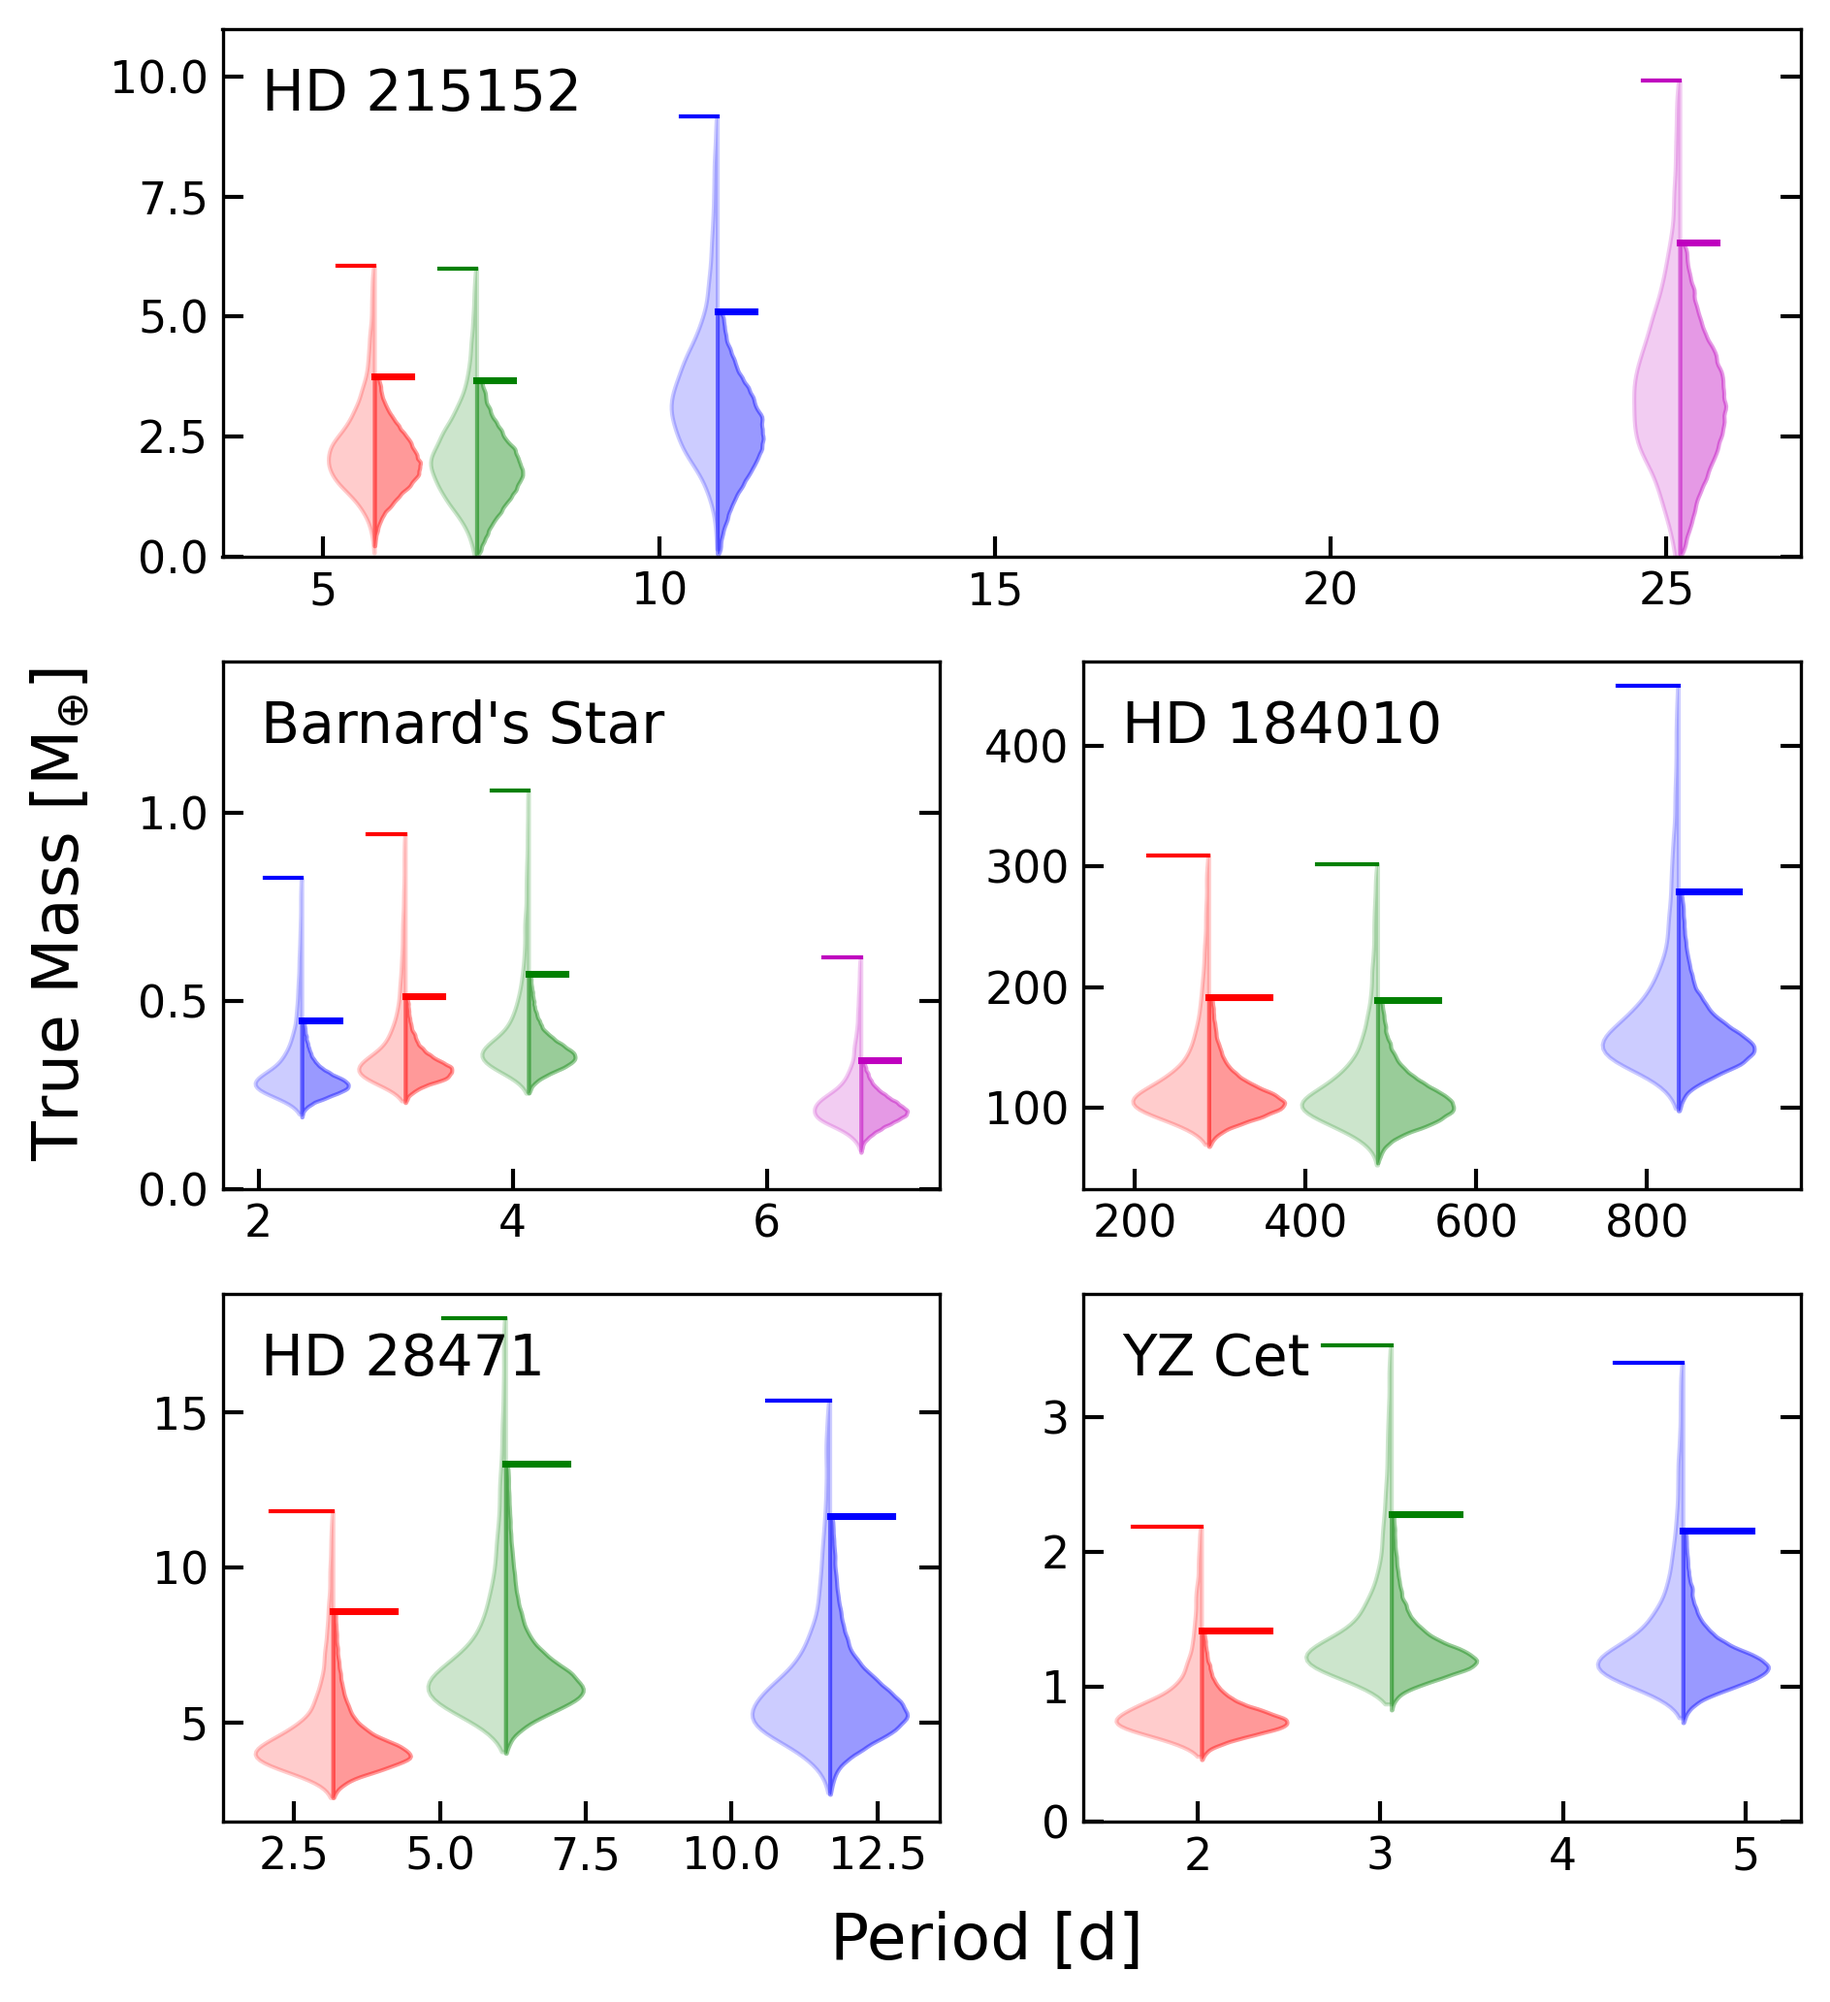
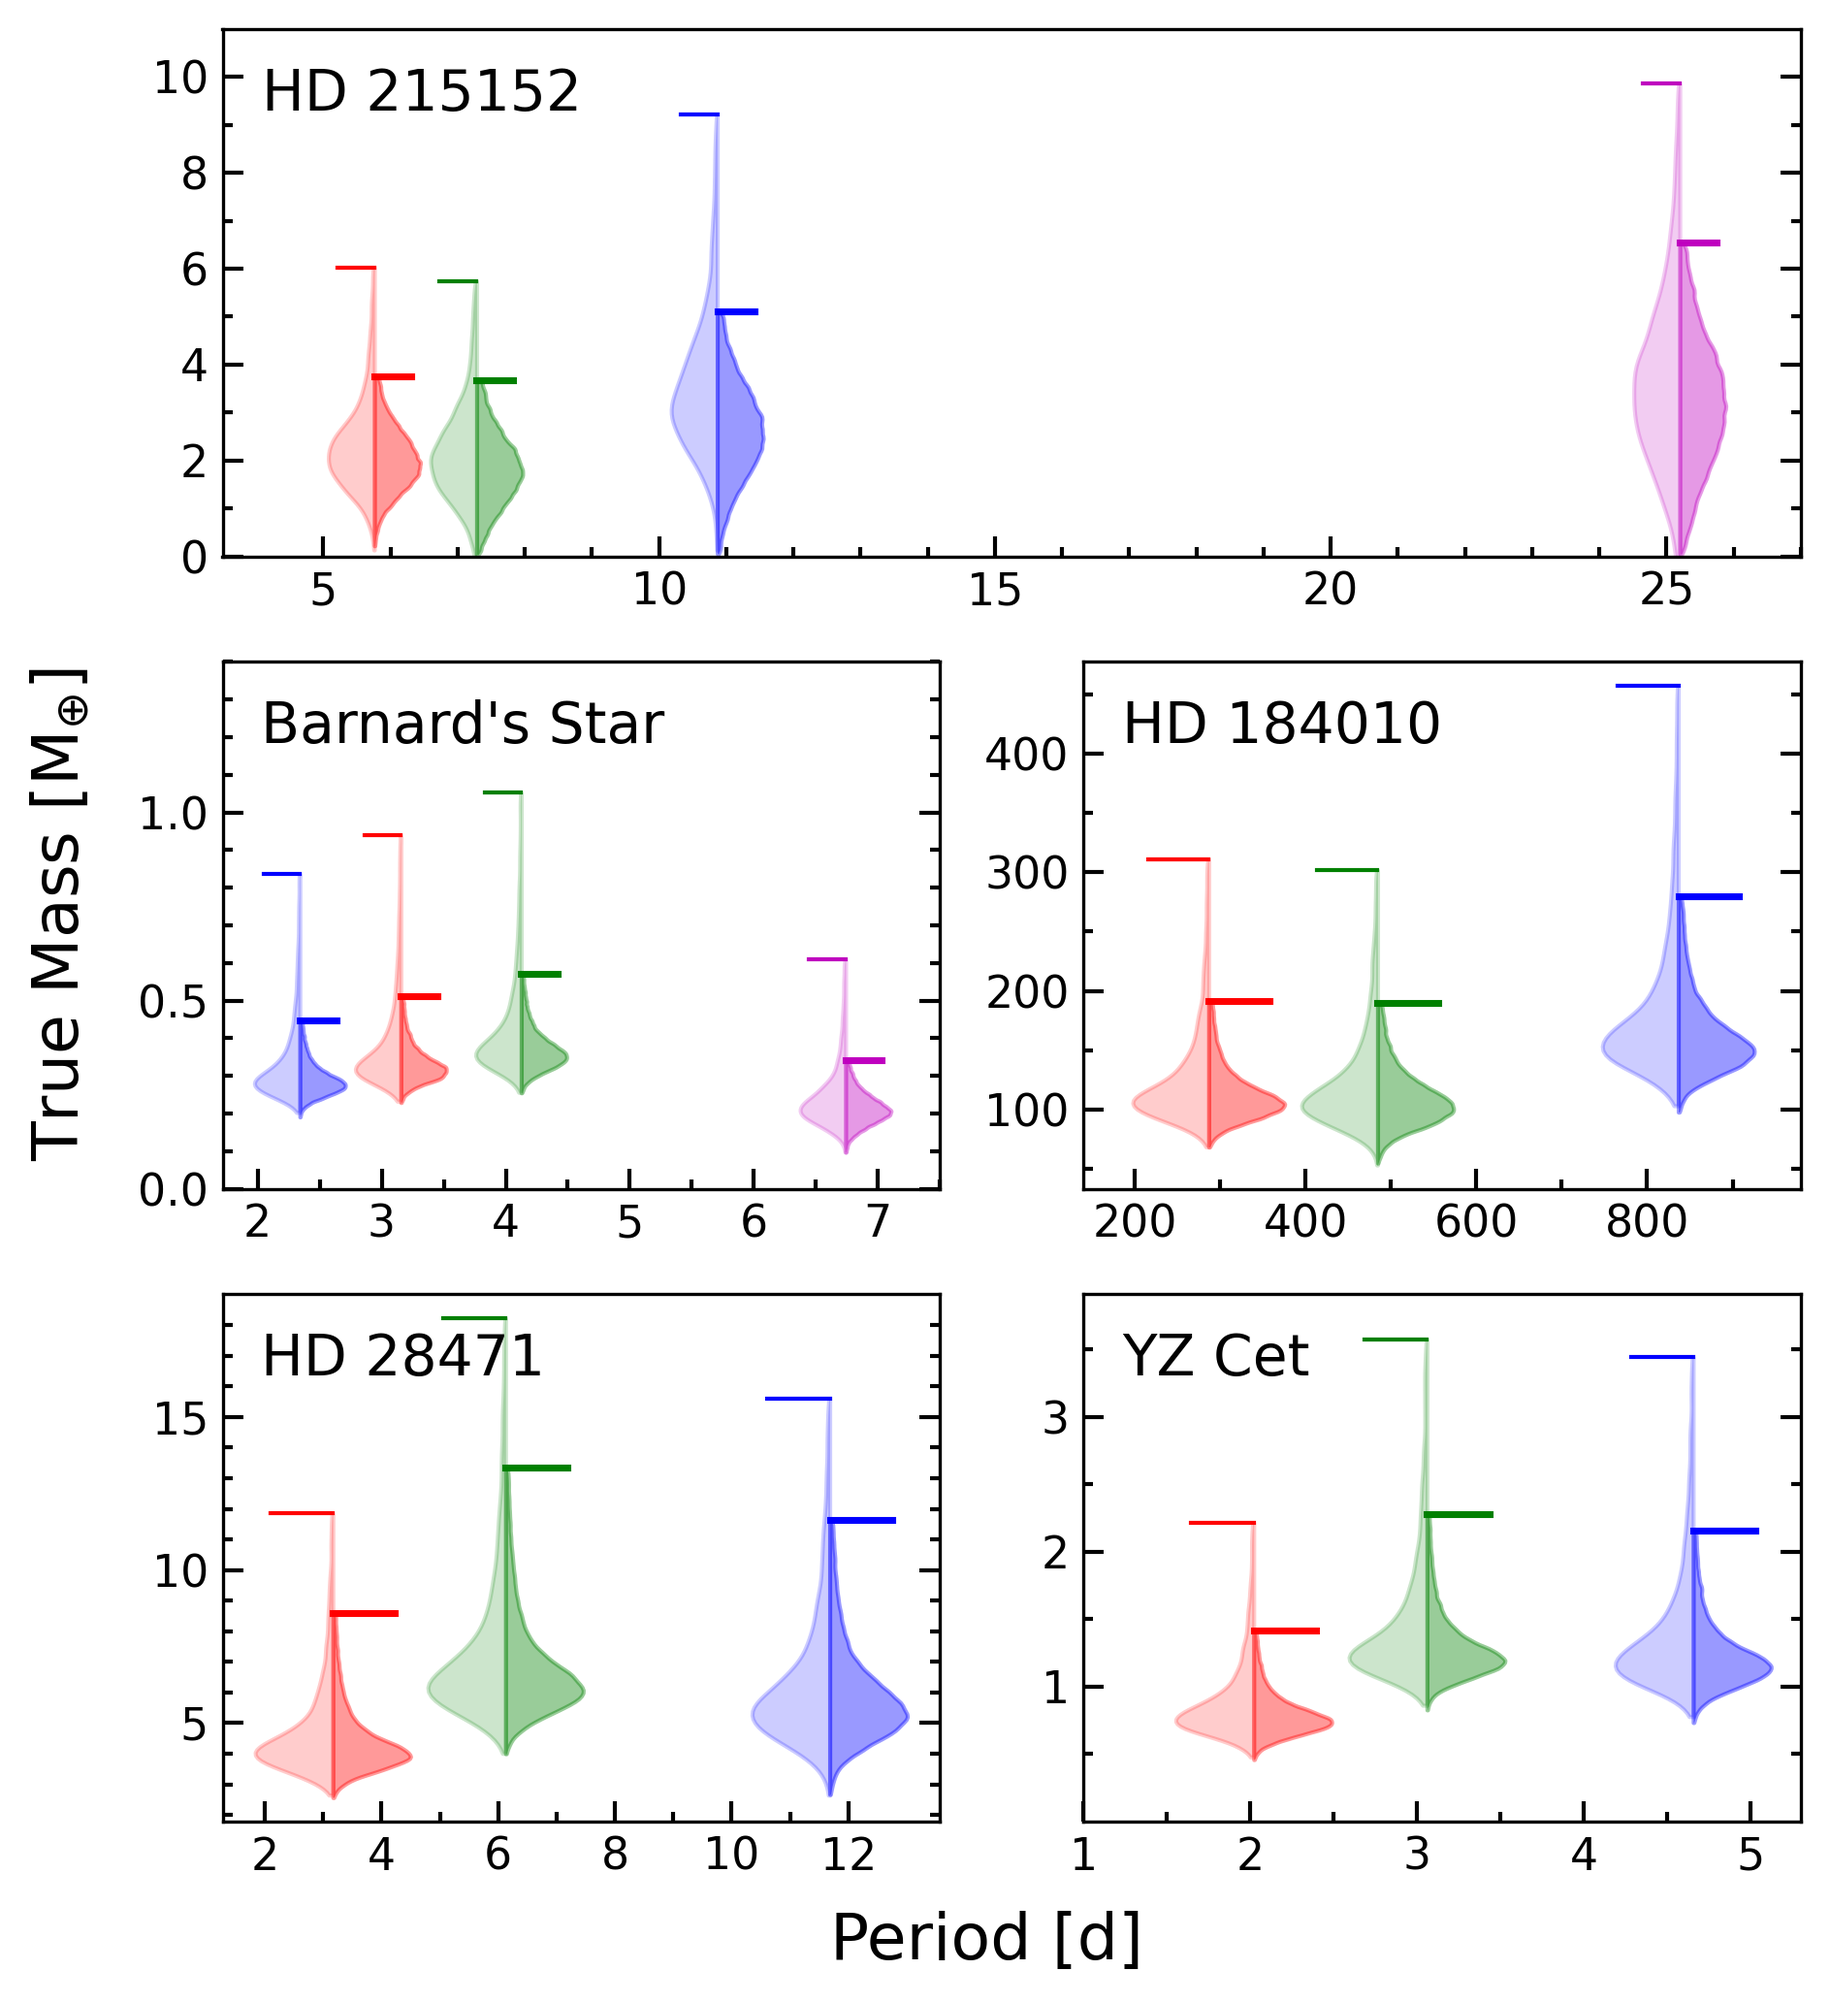
Add minor ticks to twin violin plots

diff --git a/scripts/figs/plot_masses_vs_periods.py b/scripts/figs/plot_masses_vs_periods.py
@@ -21,6 +21,28 @@ MOSAIC = [["HD 215152"] * 2, ["Barnard's star", "HD 184010"], ["HD 28471", "YZ C
 
 COLOURS = {"b": "r", "c": "g", "d": "b", "e": "m", "f": "c"}
 
+XTICKS = {
+    "HD 215152": {"major": np.arange(5, 29, 5), "minor": np.arange(5, 28, 1)},
+    "Barnard's star": {"major": np.arange(2, 8, 1), "minor": np.arange(2, 8, 0.5)},
+    "HD 184010": {
+        "major": np.arange(200, 1100, 200),
+        "minor": np.arange(200, 950, 100),
+    },
+    "HD 28471": {"major": np.arange(2, 14, 2), "minor": np.arange(2, 13, 1)},
+    "YZ Cet": {"major": np.arange(1, 6, 1), "minor": np.arange(1, 5, 0.5)},
+}
+
+YTICKS = {
+    "HD 215152": {"major": np.arange(0, 11, 2), "minor": np.arange(0, 10, 1)},
+    "Barnard's star": {
+        "major": np.arange(0, 1.5, 0.5),
+        "minor": np.arange(0, 1.5, 0.1),
+    },
+    "HD 184010": {"major": np.arange(100, 500, 100), "minor": np.arange(50, 500, 50)},
+    "HD 28471": {"major": np.arange(5, 20, 5), "minor": np.arange(2, 19, 1)},
+    "YZ Cet": {"major": np.arange(1, 4, 1), "minor": np.arange(0.5, 4, 0.5)},
+}
+
 
 def truncate_samples(samples):
     """Truncate samples between 5th and 95th percentiles."""
@@ -192,6 +214,15 @@ def main() -> None:
             x, y = 0.054, 0.8
         ax.set_title(title, fontsize=14, x=x, y=y, horizontalalignment="left")
 
+        # Ticks
+        ax.set_xticks(XTICKS[system]["major"])
+        ax.set_xticks(XTICKS[system]["minor"], minor=True)
+        ax.set_yticks(YTICKS[system]["major"])
+        ax.set_yticks(YTICKS[system]["minor"], minor=True)
+
+        ax.tick_params(labelsize=11, width=1, direction="in", right=True, which="both")
+        ax.tick_params(which="major", length=5, axis="both")
+        ax.tick_params(which="minor", length=2.5, axis="both")
         ax.tick_params(length=5, labelsize=11, width=1, direction="in", right=True)
 
     # Axes tweaks
